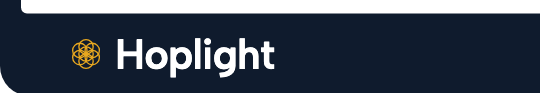
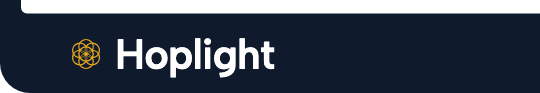
mockups: card-lockup review fixes; option a (the x-height) deleted because it became a 4 px gold dot at phone width, b and c keep their letters; the third of each ring circle inside the centre circle is drawn at half the line (b 0.9 px, c 0.8 px on the 1200 card) so the six crossings at the centre s

diff --git a/public/mockups/card-lockup.html b/public/mockups/card-lockup.html
@@ -5,9 +5,9 @@
 <meta name="viewport" content="width=device-width, initial-scale=1">
 <meta name="robots" content="noindex">
 <title>The bloom at the height of the letters</title>
-<meta name="description" content="Three heights for the bloom beside the word Hoplight, each with a thinner line, on five framed cards.">
+<meta name="description" content="Two heights for the bloom beside the word Hoplight, each with a thinner line, on five framed cards.">
 <meta property="og:title" content="The bloom at the height of the letters">
-<meta property="og:description" content="Three heights for the bloom beside the word Hoplight, each with a thinner line.">
+<meta property="og:description" content="Two heights for the bloom beside the word Hoplight, each with a thinner line.">
 <meta property="og:image" content="https://hoplight.ai/og.png">
 <meta name="twitter:card" content="summary_large_image">
 <meta name="apple-mobile-web-app-title" content="Card lockup">
@@ -27,17 +27,20 @@
   below the baseline, the stem of the l 113, the bar of the H 99.
 
   So the brief's third height ("the H including any overshoot") is the cap height again in this face. The
-  three options are therefore: a, the x-height; b, the cap height; c, the full height of the letters, from
-  the foot of the p to the top of the l. a and b sit on the baseline and dip below it, and rise above
-  their line, by the font's own round overshoot, exactly as the o and the O do; c is bound by the
-  letters' extremes and centred on them. None is taller than the letters.
+  options were therefore: a, the x-height; b, the cap height; c, the full height of the letters, from
+  the foot of the p to the top of the l. b sits on the baseline and dips below it, and rises above the
+  cap height, by the font's own round overshoot, exactly as the O does; c is bound by the letters'
+  extremes and centred on them. None is taller than the letters.
+
+  After the design review, the same day: a was deleted (at phone width it became a 4 px gold dot), and b
+  and c keep their letters; the lines inside the centre circle are drawn at half weight, because the six
+  circles crossing at the centre thickened into a solid knot at card size; and c's space to the H is b's.
 
   The line. Treatment 3's line was 0.38 of a circle's radius, which puts 65% ink in the bloom's box
   against the word's 43% across its cap height (counted, _scratch/cardmark3/density.mjs): the bloom was
   half again as dark as the word it sits beside, which is why it read thick and filled in. Each option's
-  line is set so the bloom carries the same ink as the word does across the same band: 49% in the
-  x-height band (line 0.24 of the radius), 43% across the cap height (0.187), 32% across the full height
-  (0.132). Floor: 4/3 px on the 1200 card, one device pixel at text-message size on a 3x phone. That puts
+  line is set so the bloom carries the same ink as the word does across the same band: 43% across the
+  cap height (line 0.187 of the radius), 32% across the full height (0.132). Floor: 4/3 px on the 1200 card, one device pixel at text-message size on a 3x phone. That puts
   every option near a quarter of the word's stem.
 
   The dot is seed.ts's: radius 1.9 px of the drawn box, never under 4.2 of its 100 units. The word is 56,
@@ -75,7 +78,7 @@ h2 { font-size: 20px; font-weight: 600; margin: 64px 0 16px; letter-spacing: -0.
 .cu .g { position: absolute; right: 12px; font-size: 12px; line-height: 1; color: rgba(255, 255, 255, 0.72); transform: translateY(-120%); }
 
 /* Every card carries its option letter beside it, so a card met mid-scroll says where it belongs. */
-.cards { display: grid; grid-template-columns: repeat(3, minmax(0, 1fr)); gap: 24px; }
+.cards { display: grid; grid-template-columns: repeat(2, minmax(0, 1fr)); gap: 24px; }
 .shot { display: grid; grid-template-columns: 22px minmax(0, 1fr); column-gap: 4px; align-items: start; }
 .ltr { font-size: 16px; font-weight: 600; line-height: 1; padding-top: 2px; }
 
@@ -87,7 +90,7 @@ h2 { font-size: 20px; font-weight: 600; margin: 64px 0 16px; letter-spacing: -0.
   .opt p { order: -1; max-width: none; }
   /* Text-message size: a card about 300 wide. */
   .cards { grid-template-columns: minmax(0, 326px); gap: 12px; }
-  .cards .shot:nth-child(3n) { margin-bottom: 16px; }
+  .cards .shot:nth-child(2n) { margin-bottom: 16px; }
   .page { padding-bottom: 32px; }
 }
 
@@ -124,7 +127,7 @@ h2 { font-size: 20px; font-weight: 600; margin: 64px 0 16px; letter-spacing: -0.
 <body>
 <main class="page">
   <h1>The bloom at the height of the letters</h1>
-  <p class="lede">Three heights for the bloom beside Hoplight, none taller than the letters. Each line is about a quarter of the word's 6.3 px stem, measured on the full-size card. Name a, b or c.</p>
+  <p class="lede">Two heights for the bloom beside Hoplight, none taller than the letters. Each line is about a quarter of the word's 6.3 px stem, measured on the full-size card, and half that where the circles cross at the centre. Name b or c.</p>
   <div class="closeups" id="closeups"></div>
   <h2>On the five cards</h2>
   <div class="cards" id="cards"></div>
@@ -138,13 +141,14 @@ h2 { font-size: 20px; font-weight: 600; margin: 64px 0 16px; letter-spacing: -0.
   var EM = { x: 0.500, round: 0.007, cap: 0.700, asc: 0.720, desc: 0.200, stem: 0.113, word: 3.791 };
   var F = 56;              // the word's size on the 1200 card
   var FLOOR = 4 / 3;       // one device pixel at 300 wide on a 3x phone
+  var GAP = (EM.cap + 2 * EM.round) * F / 2;  // bloom to word, both options: half of b's bloom height
+  var INNER = 0.5;         // the lines inside the centre circle, as a share of the full line
 
   // Each option: the band the bloom fills (in em, from the baseline up), its line as a share of a
   // circle's radius (the word's ink across the same band), and the two letter lines that bound it.
+  // Option a (the x-height) was deleted after the design review: at phone width it became a 4 px gold
+  // dot. The two that remain keep their letters, b and c.
   var OPTIONS = [
-    { id: 'a', top: EM.x + EM.round, bottom: -EM.round, f: 0.24,
-      lines: [[EM.x, 'x-height'], [0, 'baseline']],
-      say: 'As tall as the o, sitting on the baseline.' },
     { id: 'b', top: EM.cap + EM.round, bottom: -EM.round, f: 0.187,
       lines: [[EM.cap, 'cap height'], [0, 'baseline']],
       say: 'As tall as the H, sitting on the baseline.' },
@@ -160,21 +164,28 @@ h2 { font-size: 20px; font-weight: 600; margin: 64px 0 16px; letter-spacing: -0.
     var k = T / (68 + 17 * o.f), s = o.f * 17 * k;
     if (s < FLOOR) { s = FLOOR; k = (T - s) / 68; }
     var r = 17 * k, cx = 31.72 * k + s / 2, cy = baseline - (o.top + o.bottom) / 2 * F;
-    // The space from bloom to word is half the bloom's height, so the pair keeps its proportion.
-    return { k: k, r: r, s: s, cx: cx, cy: cy, w: 2 * cx, gap: T / 2, dot: Math.max(1.9, 4.2 * k) };
+    return { k: k, r: r, s: s, si: s * INNER, cx: cx, cy: cy, w: 2 * cx, gap: GAP, dot: Math.max(1.9, 4.2 * k) };
   }
   function n(v) { return Math.round(v * 100) / 100; }
 
   // One lockup, bloom then word, as SVG pieces on a baseline at y, the bloom's left edge at x 0.
+  // Each of the six ring circles passes through the centre; the third of it inside the centre circle
+  // (from 120 to 240 degrees round its own centre, facing the bloom's centre) is drawn at the thinner
+  // inner line, so the six crossings at the centre stay open. The other two thirds, the outer rings,
+  // and the centre circle keep the full line. The weight steps where the arc meets the centre circle,
+  // inside a junction of three lines, so the step does not show.
   function lockup(o, baseline) {
-    var g = geometry(o, baseline), c = '';
-    for (var j = -1; j < 6; j++) {
-      var a = (-90 + 60 * j) * Math.PI / 180, d = j < 0 ? 0 : g.r;
-      c += '<circle cx="' + n(g.cx + d * Math.cos(a)) + '" cy="' + n(g.cy + d * Math.sin(a)) + '" r="' + n(g.r) + '"/>';
+    var g = geometry(o, baseline), outer = '<circle cx="' + n(g.cx) + '" cy="' + n(g.cy) + '" r="' + n(g.r) + '"/>', inner = '';
+    for (var j = 0; j < 6; j++) {
+      var t = (-90 + 60 * j) * Math.PI / 180, X = g.cx + g.r * Math.cos(t), Y = g.cy + g.r * Math.sin(t);
+      var p = function (deg) { var a = t + deg * Math.PI / 180; return n(X + g.r * Math.cos(a)) + ' ' + n(Y + g.r * Math.sin(a)); };
+      inner += '<path d="M' + p(120) + 'A' + n(g.r) + ' ' + n(g.r) + ' 0 0 1 ' + p(240) + '"/>';
+      outer += '<path d="M' + p(240) + 'A' + n(g.r) + ' ' + n(g.r) + ' 0 1 1 ' + p(120) + '"/>';
     }
     return {
       g: g,
-      svg: '<g fill="none" stroke="' + SEED_GOLD + '" stroke-width="' + n(g.s) + '">' + c + '</g>'
+      svg: '<g fill="none" stroke="' + SEED_GOLD + '"><g stroke-width="' + n(g.s) + '">' + outer + '</g>'
+        + '<g stroke-width="' + n(g.si) + '">' + inner + '</g></g>'
         + '<circle cx="' + n(g.cx) + '" cy="' + n(g.cy) + '" r="' + n(g.dot) + '" fill="' + SEED_GOLD + '"/>'
         + '<text x="' + n(g.w + g.gap) + '" y="' + n(baseline) + '" fill="#FFFFFF" font-family="Albert Sans" font-weight="600" font-size="' + F + '" style="letter-spacing:-0.02em">Hoplight</text>'
     };
